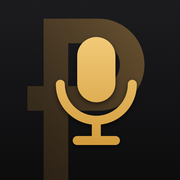
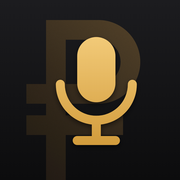
Иконка: правильный знак рубля с двумя чертами
Claude-Session: https://claude.ai/code/session_0153Ca9PwxTAUhg9Qyd8q6Hx

diff --git a/sw.js b/sw.js
@@ -1,5 +1,5 @@
 // Offline cache for Калькулятор lango.show. New version is picked up on the next launch after an update.
-const CACHE = 'lango-calc-c1fb793b';
+const CACHE = 'lango-calc-c1fb793c';
 const FILES = ['./', './index.html', './manifest.webmanifest', './icon-180.png', './icon-192.png', './icon-512.png', './icon-512-maskable.png'];
 self.addEventListener('install', e => { e.waitUntil(caches.open(CACHE).then(c => c.addAll(FILES)).then(() => self.skipWaiting())); });
 self.addEventListener('activate', e => { e.waitUntil(caches.keys().then(keys => Promise.all(keys.filter(k => k !== CACHE).map(k => caches.delete(k)))).then(() => self.clients.claim())); });
